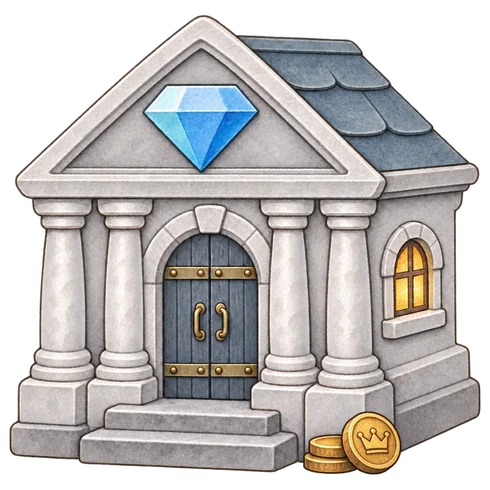
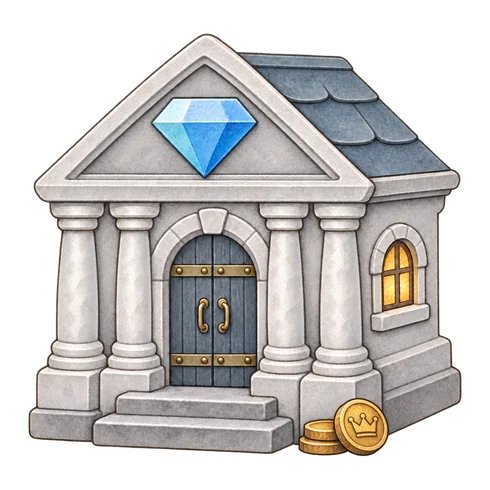
은행 '은행에 맡긴 코인' 문구 · 은행 그림 약간 작게
Claude-Session: https://claude.ai/code/session_01KLRK2FHsv87Voftb1E9mFp

diff --git a/src/components/camp/BankSheet.jsx b/src/components/camp/BankSheet.jsx
@@ -92,7 +92,7 @@ export default function BankSheet({ open, onClose, dark, today, bank = { deposit
           </div>
           {/* 지갑 / 맡긴 코인 */}
           <div style={{ display: "flex", gap: 8, marginTop: 12 }}>
-            {[["내 지갑", coin], ["은행에 맡긴", bankTotal(bank)]].map(([label, v]) => (
+            {[["내 지갑", coin], [`은행에 맡긴 ${coinName}`, bankTotal(bank)]].map(([label, v]) => (
               <div key={label} style={{ flex: 1, borderRadius: 12, padding: "8px 10px",
                 background: dark ? CAMP_SHEET.chipBg : "rgba(255,255,255,0.65)",
                 border: `1px solid ${dark ? CAMP_SHEET.chipBorder : "rgba(255,255,255,0.9)"}` }}>

diff --git a/art-src/README.md b/art-src/README.md
@@ -468,7 +468,7 @@ getBoundingClientRect로 재서 정한다. 2026-08-05 점검에서 이 기준을
 | adventure-map-short-v5-src.webp | 탐험지도 짧은 판 v5 (930×1692 = 1:1.819 — 학원 0~3곳용). v4와 크기가 같아 `ar`·`yr`·경로 가중치는 그대로고, 긴 판 v14와 같은 결로 다시 그린 판이다. 여기도 모래길이 다시 그려져 길 중심선 88점을 새로 뽑았다. 학원 자리·동물·상자는 그대로 | adventure-map-short.webp |
 | camp-bag-v2-src.webp | 캐릭터 탭 가방 카드 '빈 틀' v2 (1260×860 = 비율 1.465, 투명 = 표시 359px의 3.5배). 세로는 그대로 두고 가로만 넓힌 판 — 종이면이 넓어져 "👑 Lv.20 전설의 탐험가"가 한 줄에 들어간다. 안쪽 종이면 x 9.9~90.0% · y 24.1~86.7%(실측)에 레벨·진행막대·코인/XP를 앱이 그린다 — 값이 매일 바뀌므로 그림에 넣지 않는다. 좁은 v1(1000×862)은 규칙 6에 따라 삭제 | camp/bag.webp |
 | camp-{deco,item,box,pet,book,title,streak,history}-v2-src.webp | 캐릭터 탭 격자 아이콘 **8종 전부** (490×490 정사각 = 표시 138px의 3.5배, 받침 없이 캔버스를 꽉 채운 판). 앱이 정사각 칸에 objectFit:contain 으로 넣으므로 여덟 칸의 무게가 저절로 맞는다. 그루터기 붙은 v1은 규칙 6에 따라 삭제 | camp/st-*.webp |
-| camp-bank-v1-src.webp | **캐릭터 탭 격자 아이콘 '은행' (사용자 원화 2026-11-20)** — 1254×1254 투명 배경, 돌기둥 은행 건물(지붕 박공에 파란 보석 💎, 오른쪽 아래 금화). 불투명(알파>40) 영역 (105,148)-(1136,1154)만 잘라 정사각 가운데 맞춤·여백 2% → 490×490 q85 (다른 8종과 같은 규격). 보물창고 바로 옆 칸 | camp/st-bank.webp |
+| camp-bank-v1-src.webp | **캐릭터 탭 격자 아이콘 '은행' (사용자 원화 2026-11-20)** — 1254×1254 투명 배경, 돌기둥 은행 건물(지붕 박공에 파란 보석 💎, 오른쪽 아래 금화). 불투명(알파>40) 영역 (105,148)-(1136,1154)만 잘라 정사각 가운데 맞춤·여백 6.5% → 490×490 q85 (다른 8종과 같은 규격). [2026-11-20 사용자 확정] 여백 2%판이 다른 칸보다 커 보여 '약간만' 줄였다(그림 폭 약 94% → 88%). 보물창고 바로 옆 칸 | camp/st-bank.webp |
 | bg-deepsea-v12-src.webp | 꾸미기 배경 '깊은 바다' 원화 v12 (872×1804 = 1:2.069 — v10·v11과 같은 크기, 무대 칸 1:2.09 와 거의 같아 좌우가 아주 조금 잘린다). v11과 구도·소품이 같다 — 바위 협곡 사이 넓은 모랫길, 그 끝의 해저 아치문, 위쪽 고래 실루엣, 가운데 바다거북, 왼쪽 아래 해마, 좌우 산호·해초, 수면 빛줄기, 파란 무리 두 떼와 노란 물고기 두 마리. 달라진 건 그림체다 — 선이 정리되고 결이 매끈해졌으며, 바위가 연한 하늘색으로 밝아지고 빛줄기가 또렷한 부챗살이 됐다. 그 덕에 압축이 잘 먹어 배포본이 60KB → 45KB (배경 여섯 판 중 가장 가볍다). deco 🫧 🐙 ✨ 🫧 🐚 · tint 0.10 · darkStage 끔 — v11 그대로다(위쪽 수면이 흰빛이라 크림색 문구가 안 읽힌다). 받은 그대로 톤 보정 없음. art-src 는 q92(111KB), 배포본은 q80(45KB) | stage-bg-deepsea.webp |
 | bg-dino-v3-src.webp | 꾸미기 배경 '공룡 섬' 원화 v3 (865×1819 = 1:2.10 — 무대 칸 1:2.09 와 거의 같다). v2와 구도·소품은 그대로고 하늘만 달라진 판 — 왼쪽 위에 큰 뭉게구름이 들어오고 오른쪽에도 구름이 더해져 하늘이 덜 비어 보인다. 초원도 살짝 진해졌다. 구도가 같아 deco·tint·darkStage 는 v2 설정 그대로 둔다. 받은 그대로 톤 보정 없음. art-src 는 q92(197KB), 배포본은 q80(78KB) | stage-bg-dino.webp |
 | bg-space-v4-src.webp | 꾸미기 배경 '우주 탐사' 원화 v4 (870×1808 = 1:2.078 — 무대 칸 1:2.09 와 사실상 같아 잘리는 데가 없다). v3과 구도·소품은 그대로다(아래 지구의 둥근 지평선이 아이가 서는 바닥, 오른쪽 위 보름달, 왼쪽 토성, 작은 위성 둘, 가운데를 가로지르는 로켓, 은하수 띠) — 파랑이 한층 진하고 선명해졌으며 지구가 커지고 구름결이 또렷해졌다. deco 는 ☄ 🛸 🌠 — v2부터 같다(🚀 🪐 🌎 🌙 ⭐ 🌌 는 그림에 이미 다 있다). tint 0.12 · darkStage 유지(밤하늘이라 응원문구는 크림색). 받은 그대로 톤 보정 없음. art-src 는 q92(167KB), 배포본은 q80(53KB) | stage-bg-space.webp |
